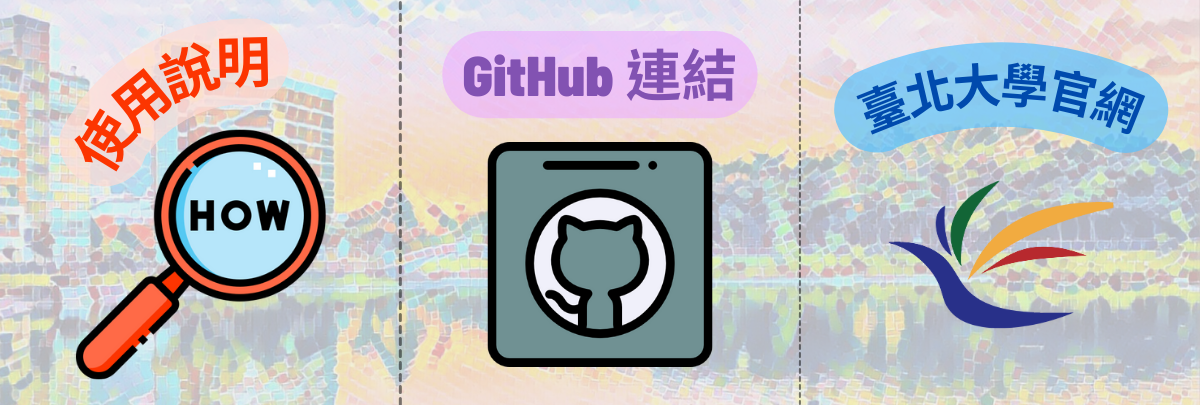
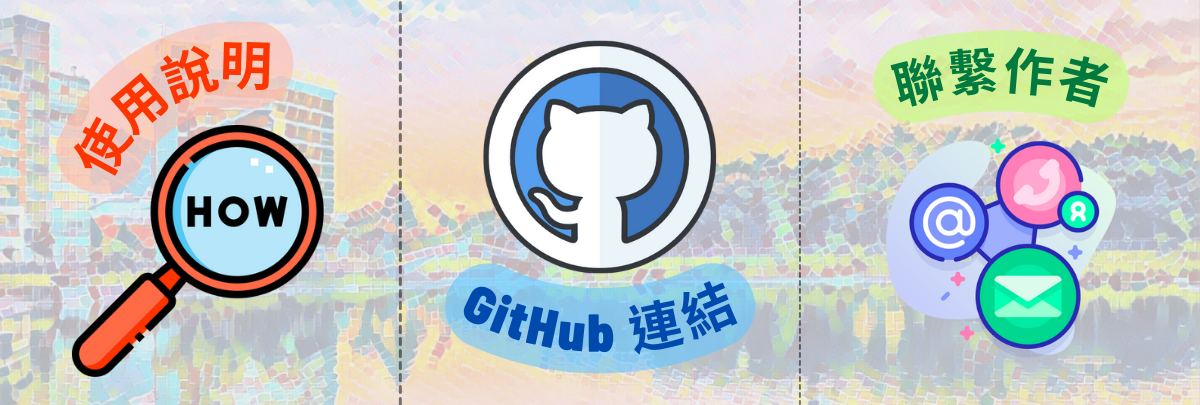
feat: 更新聯繫作者的連結及豐富菜單標籤

diff --git a/internal/bot/processor.go b/internal/bot/processor.go
@@ -283,7 +283,7 @@ func (p *Processor) buildWelcomeFlexMessage(nluEnabled bool, sender *messaging_a
 			WithColor(lineutil.ColorButtonExternal).
 			WithHeight("sm").
 			WithMargin("sm").FlexButton,
-		lineutil.NewFlexButton(lineutil.NewURIAction("👨💻 作者聯繫方式", "https://linktr.ee/huang.guan.ying")).
+		lineutil.NewFlexButton(lineutil.NewURIAction("👨💻 聯繫作者", "https://linktr.ee/garyellow")).
 			WithStyle("secondary").
 			WithHeight("sm").
 			WithMargin("sm").FlexButton,
